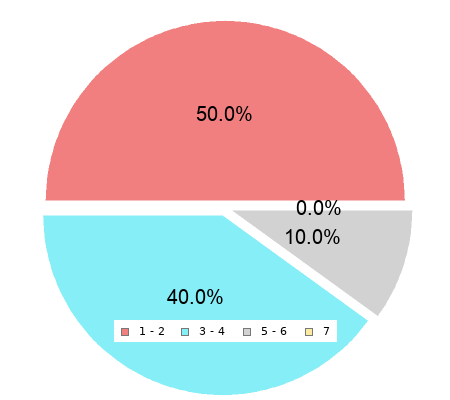
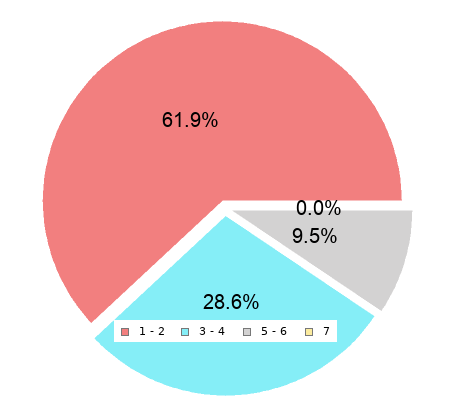
Mejoras en PDF chart

diff --git a/src/templates/ReportPdfChart.php b/src/templates/ReportPdfChart.php
@@ -4,6 +4,10 @@
 	$file_name = (isset($file_name)) ? $file_name : NULL;
 	$price = (isset($price)) ? $price : 0;
 	$pricemetro = (isset($pricemetro)) ? $pricemetro : 0;
+	$planta = (isset($planta)) ? $planta : 0;
+	$hab = (isset($hab)) ? $hab : 0;
+	$bno = (isset($bno)) ? $bno : 0;
+	$constr = (isset($constr)) ? $constr : 0;
 	$amueblado = (isset($amueblado)) ? $amueblado : 0;
 	$a_c = (isset($a_c)) ? $a_c : 0;
 	$elevator = (isset($elevator)) ? $elevator : 0;
@@ -17,14 +21,22 @@
 	{
 	    $prom = 0;
 		$promMetro = 0;
+		$planta = 0;
+		$hab = 0;
+		$bno = 0;
+		$constr = 0;
 	}
 	else
 	{
 	    $prom = $price / $rows;
 		$promMetro = $pricemetro / $rows;
+		$plan = $planta / $rows;
+		$hb = $hab / $rows;
+		$bn = $bno / $rows;
+		$co = $constr / $rows;
 	}	
 
-	$pdf = new FPDF('P','mm','Legal');
+	$pdf = new FPDF('P','mm','A4');
 
 	$pdf ->SetFillColor('200','200','200');
 	$pdf->SetDrawColor('194','194','194');
@@ -34,20 +46,22 @@
 
 	function headerPdf($pdf)
 	{
+		$pdf -> SetFont('Arial', '', 12);	
+		$pdf->SetTextColor('55','55','55');
 		$pdf -> Image(__DIR__ .'/../image/AH_LogoHost_Color.png', 6, 6, 60, 14);
 		$pdf->Text(93,15,utf8_decode('Informe de Valoración'));
 		//$pdf -> Image(__DIR__ .'/../image/maps.png', 185, 3, 20, 20, 'PNG');
-		$pdf -> Line(8,25,207,25);
+		$pdf -> Line(8,23,200,23);
 	}
 
 	function footer($pdf)
 	{
 		$pdf->SetTextColor('134','134','134');
-		$pdf -> Line(8,333,207,333);
-		$pdf->SetFontSize(9);
-		$pdf->Text(8,346,'Alterhome');
-		$pdf->Text(60,346,utf8_decode('Calle de Alfonso XII, 8, entreplanta, izquierda, 28014 Madrid'));		
-		$pdf->Text(177,346,'+34 910 57 30 27');		
+		$pdf -> Line(8,280,200,280);
+		$pdf -> SetFont('Arial', '', 9);	
+		$pdf->Text(8,290,'Alterhome');
+		$pdf->Text(60,290,utf8_decode('Calle de Alfonso XII, 8, entreplanta, izquierda, 28014 Madrid'));		
+		$pdf->Text(177,290,'+34 910 57 30 27');		
 	}
 
 	function apartamento ($pdf, $apart, $prom)
@@ -59,7 +73,9 @@
 			'balcon' => 'Balcón'
 		);
 		$pdf->SetTextColor('55','55','55');
+		$pdf -> SetFont('Arial', 'B', 17);
 
+		$pdf->Text(75,33,utf8_decode("Promedio de la zona"));
 		// foto / descripcion
 		$pdf -> Image(__DIR__ .'/../image/prueba.jpg', 10, 40, 60, 60);
 
@@ -99,36 +115,14 @@
 
 		$pdf -> SetFont('Arial', 'B', 16);
 		$pdf->Text(18,146,$apart['tipo']);
-		$pdf->Text(52,146,$apart['planta']);
-		$pdf->Text(88,146,$apart['habitaciones']);
-		$pdf->Text(124,146,$apart['bano']);
-		$pdf->Text(153,146,$apart['metrosCuadrados'].utf8_decode(' m²'));
+		$pdf->Text(52,146,round($prom['planta'],0));
+		$pdf->Text(88,146,round($prom['habitaciones'],0));
+		$pdf->Text(124,146,round($prom['bano'],0));
+		$pdf->Text(153,146,round($prom['construccion'],2).utf8_decode(' m²'));
 		$pdf -> SetFont('Arial', '', 12);
 
-		$pdf -> Line(8,165,207,165);
+		$pdf -> Line(8,160,207,160);
 		$pdf -> SetFont('Arial', '', 12);
-
-		//Beneficios apartamentos
-		$coun = 0;
-		$ejeX = 9;
-		foreach ($beneficios as $key => $value) {
-			if ($apart[$key]) {
-				$pdf -> Rect($ejeX, 172, 40, 10, 'F');
-				$pdf->Text($ejeX+13,178.4,utf8_decode($value));
-				$ejeX+=45;
-				$coun++;
-			}
-		}
-		if($coun == 0)
-		{
-			$pdf -> Rect(23, 172, 160, 10, 'F');
-			$pdf->Text(35,178.4,utf8_decode('Apartamento no posee: Aire Acondicionado, Exterior, Ascensor, Balcón.'));
-		}
-
-		$pdf -> Line(8,190,207,190);
-
-
-		$pdf -> SetFont('Arial', 'B', 14);
 	}
 
 	//Portada
@@ -136,7 +130,7 @@
 	$pdf->SetTextColor('225','225','225');
 	$pdf->SetFontSize(20);
 	$date = getdate();
-	$pdf->image(__DIR__.'/../image/portada.jpg',0,0,250,356,'JPG');
+	$pdf->image(__DIR__.'/../image/portada.jpg',0,0,250,300,'JPG');
 	$pdf->image(__DIR__.'/../image/AH_LogoHost_Blanco.png',50,10,120,29,'PNG');
 	$pdf->Text(70,60,utf8_decode('INFORME DE VALORACIÓN'));
 	$pdf->SetFontSize(12);
@@ -144,8 +138,8 @@
 	 $meses_ES = array("Enero", "Febrero", "Marzo", "Abril", "Mayo", "Junio", "Julio", "Agosto", "Septiembre", "Octubre", "Noviembre", "Diciembre");
   	 $meses_EN = array("January", "February", "March", "April", "May", "June", "July", "August", "September", "October", "November", "December");
   	$mes = str_replace($meses_EN,$meses_ES,$date['month']);
-	$pdf->Text(150,330,utf8_decode('Fecha de emisión'));
-	$pdf->Text(145,339,$date['mday']." de ".$mes." de ".$date['year']);
+	$pdf->Text(150,280,utf8_decode('Fecha de emisión'));
+	$pdf->Text(145,286,$date['mday']." de ".$mes." de ".$date['year']);
 
 	//contra-portada
 	$pdf -> AddPage();	
@@ -158,7 +152,7 @@
 	$pdf->MultiCell(0,10,utf8_decode($apart['direccion']),0,'J',false);
 	$pdf->Ln(50);
 	$pdf -> Cell(30,15,'Alquiler','L',0,'C',true);
-	$pdf -> Image(__DIR__ .'/../image/AH_LogoHost_Color.png', 50, 270, 120,27);
+	$pdf -> Image(__DIR__ .'/../image/AH_LogoHost_Color.png', 50, 220, 120,27);
 
 	//Pagina datos 
 	$pdf -> AddPage();
@@ -169,42 +163,44 @@
 
 	
 
-	apartamento($pdf, $apart,[ 'prom' => $prom, 'promM' => $promMetro]);
+	apartamento($pdf, $apart,[ 'prom' => $prom, 'promM' => $promMetro, 'planta' => $plan, 'habitaciones' => $hb, 'bano' => $bn, 'construccion' => $co]);
 
 	//Reporte Global-1
 	$pdf->SetFontSize(16);
-	$pdf->Text(73,200,'Detalle global de la zona');
+	$pdf->Text(73,170,'Detalle global de la zona');
 	$pdf->SetFontSize(12);
 
 	//tamaños title
-	$pdf->Text(23,215,'Precio');
-	$pdf->Text(63,215,'Apartamentos');	
-	$pdf->Text(101.5,215,utf8_decode('Edad media edificación'));
-	$pdf->Text(155,215,utf8_decode('Radio de búsqueda'));
-	$pdf->Text(26,275,'A/C');
-	$pdf->Text(67,275,'Ascensor');
-	$pdf->Text(118,275,utf8_decode('Balcón'));	
-	$pdf->Text(164,275,'Amueblado');
+	$pdf->Text(23,180,'Precio');
+	$pdf->Text(63,180,'Apartamentos');	
+	$pdf->Text(101.5,180,utf8_decode('Edad media edificación'));
+	$pdf->Text(155,180,utf8_decode('Radio de búsqueda'));
+	$pdf->Text(26,228,'A/C');
+	$pdf->Text(67,228,'Ascensor');
+	$pdf->Text(118,228,utf8_decode('Balcón'));	
+	$pdf->Text(164,228,'Amueblado');
 
 	$pdf->SetTextColor('100','100','100');
-	$pdf->Text(90,320,'Apartamentos');
+	$pdf->Text(43,267,'Estos valores son la cantidad de apartamentos en base a la zona');
 	$pdf->SetTextColor('55','55','55');
+	$pdf -> SetFont('Arial', 'I', 9);
+	$pdf->Text(58,272,'( Ejemplo: hay '.$elevator.' apartamentos de '.$rows.' que cuentan con ascensor )');
 
 	//data
-	$pdf -> SetFont('Arial', 'B', 13.5);
+	$pdf -> SetFont('Arial', 'B', 12.5);
 	//precio	
-	$pdf -> Line(8,210,8,250);
-	$pdf -> Image(__DIR__ .'/../image/rounded_blue.png', 15, 218, 30, 35);
-	$pdf->Text(20,238,round($prom,2)." ".EURO);
+	$pdf -> Line(8,175,8,210);
+	$pdf -> Image(__DIR__ .'/../image/rounded_blue.png', 18, 185, 25, 27);
+	$pdf->Text(20,200,round($prom,2)." ".EURO);
 
 	//apartamentos
-	$pdf -> Line(53,210,53,250);	
-	$pdf -> Image(__DIR__ .'/../image/rounded_blue.png', 62, 218, 30, 35);
-	$pdf->Text(73,238,$rows);
+	$pdf -> Line(53,175,53,210);	
+	$pdf -> Image(__DIR__ .'/../image/rounded_blue.png', 64, 185, 25, 27);
+	$pdf->Text(73,200,$rows);
 
 	//edad media
-	$pdf -> Line(100,210,100,250);
-	$pdf -> Image(__DIR__ .'/../image/rounded_blue.png', 110, 218, 30, 35);
+	$pdf -> Line(100,175,100,210);
+	$pdf -> Image(__DIR__ .'/../image/rounded_blue.png', 112, 185, 25, 27);
 
 		//calculo edad
 		$sumedad=0;
@@ -216,41 +212,41 @@
 			}			
 		}
 		$edad = $sumedad/$rowsedad;
-	$pdf->Text(122,238,round($edad));
+	$pdf->Text(121,200,round($edad));
 
 	// Radio de busqueda
-	$pdf -> Line(150,210,150,250);
-	$pdf -> Image(__DIR__ .'/../image/rounded_blue.png', 160, 218, 30, 35);
-	$pdf->Text(172.5,238,$km);
-	$pdf -> Line(200,210,200,250);			
+	$pdf -> Line(150,175,150,210);
+	$pdf -> Image(__DIR__ .'/../image/rounded_blue.png', 162, 185, 25, 27);
+	$pdf->Text(172.5,200,$km);
+	$pdf -> Line(200,175,200,210);			
 	$pdf -> SetFont('Arial', '', 11);
-	$pdf->Text(138,223,utf8_decode('Años'));
-	$pdf->Text(189,223,utf8_decode('Km³'));	
+	$pdf->Text(138,189,utf8_decode('Años'));
+	$pdf->Text(189,189,utf8_decode('Km³'));	
 	$pdf -> SetFont('Arial', 'B', 13.5);
 
 	//Reporte Global-2
-	$pdf -> Line(8,260,200,260);
+	$pdf -> Line(8,218,200,218);
 
 	// A/C
-	$pdf -> Line(8,270,8,320);
-	$pdf -> Image(__DIR__ .'/../image/rounded_blue.png', 15, 278, 30, 35);
-	$pdf->Text(26,297,$a_c);
+	$pdf -> Line(8,223,8,270);
+	$pdf -> Image(__DIR__ .'/../image/rounded_blue.png', 18, 232, 25, 27);
+	$pdf->Text(27,247,$a_c);
 
 	//ascensor
-	$pdf -> Line(53,270,53,310);	
-	$pdf -> Image(__DIR__ .'/../image/rounded_blue.png', 62, 278, 30, 35);
-	$pdf->Text(73,297,$elevator);
+	$pdf -> Line(53,223,53,258);	
+	$pdf -> Image(__DIR__ .'/../image/rounded_blue.png', 64, 232, 25, 27);
+	$pdf->Text(73,247,$elevator);
 
 	// balcón
-	$pdf -> Line(100,270,100,310);
-	$pdf -> Image(__DIR__ .'/../image/rounded_blue.png', 110, 278, 30, 35);
-	$pdf->Text(122.5,297,$balcon);
+	$pdf -> Line(100,223,100,258);
+	$pdf -> Image(__DIR__ .'/../image/rounded_blue.png', 112, 232, 25, 27);
+	$pdf->Text(121.5,247,$balcon);
 
 	// Amueblado
-	$pdf -> Line(150,270,150,310);
-	$pdf -> Image(__DIR__ .'/../image/rounded_blue.png', 160, 278, 30, 35);
-	$pdf->Text(171,297,$amueblado);
-	$pdf -> Line(200,270,200,320);
+	$pdf -> Line(150,223,150,258);
+	$pdf -> Image(__DIR__ .'/../image/rounded_blue.png', 162, 232, 25, 27);
+	$pdf->Text(172,247,$amueblado);
+	$pdf -> Line(200,223,200,270);
 
 	footer($pdf);
 
@@ -269,26 +265,26 @@
 
 		
 	    $pdf->Text(40,40,'Habitaciones');
-	    $pdf -> Image($imgHab, 8, 45, 95, 95);
+	    $pdf -> Image($imgHab, 15, 45, 80, 75);
 
 		
-	    $pdf->Text(148,40,utf8_decode('Baños'));
-	    $pdf -> Image($imgBano, 110, 45, 95, 95);
+	    $pdf->Text(150,40,utf8_decode('Baños'));
+	    $pdf -> Image($imgBano, 120, 45, 80, 75);
 
 		
-	    $pdf -> Image($imgPrice, 18, 168, 180, 160);
-	    $pdf->Text(54,185,utf8_decode('Cantidad de apartamentos según su precio'));
+	    $pdf -> Image($imgPrice, 28, 135, 170, 150);
+	    $pdf->Text(54,150,utf8_decode('Cantidad de apartamentos según su precio'));
 
-	    $pdf -> Line(10,165,207,165);
-	    $pdf -> Line(106,35,106,150);
+	    $pdf -> Line(10,140,207,140);
+	    $pdf -> Line(106,35,106,135);
 
 	    $pdf->SetTextColor('110','110','110');
 	    $pdf->SetFontSize(12);
 
-	    $pdf->Text(160,318,'Precio ( '.EURO." )");
-	    $pdf->Text(8,220,'Apartamentos');
-	    $pdf->Text(17,148,utf8_decode('Porcentaje según cantidad de habitaciones'));
-	    $pdf->Text(126,148,utf8_decode('Porcentaje según cantidad de baños'));
+	    $pdf->Text(160,272,'Precio ( '.EURO." )");
+	    $pdf->Text(3,200,'Apartamentos');
+	    $pdf->Text(17,130,utf8_decode('Porcentaje según cantidad de habitaciones'));
+	    $pdf->Text(126,130,utf8_decode('Porcentaje según cantidad de baños'));
 	    footer($pdf);
 
 	}else{

diff --git a/src/Calculator.php b/src/Calculator.php
@@ -122,6 +122,10 @@ class Calculator extends Settings
         $file_name = __DIR__ . '/../output';
         $price = 0;
         $pricemetro = 0;
+        $planta = 0;
+        $hab = 0;
+        $bno = 0;
+        $constr = 0;
         $amueblado =0;
         $a_c =0;
         $elevator =0;
@@ -150,6 +154,10 @@ class Calculator extends Settings
             while (($datum = $ok->fetch_assoc())) {
                 $price += $datum['precio'];
                 $pricemetro += $datum['precioMetro'];
+                $planta += $datum['planta'];
+                $hab += $datum['habitaciones'];
+                $bno += $datum['bano'];
+                $constr += $datum['metrosCuadrados'];
                 $amueblado += ($datum['amueblado']) ? 1 : 0;
                 $a_c += ($datum['aireAcondicionado']) ? 1 : 0;
                 $elevator += ($datum['ascensor']) ? 1 : 0;

diff --git a/example/importar_csv.php b/example/importar_csv.php
@@ -7,7 +7,7 @@ use leifermendez\scrapper_calculator\Calculator;
 
 $calculator = new Calculator();
 
-$file = __DIR__ . '/../csv/2019-09-30T230344.101Z_alquiler-viviendas_madrid_salamanca_lista.csv';
+$file = __DIR__ . '/../csv/2019-10-02T071802.756Z_alquiler-viviendas_madrid_villa-de-vallecas_ensanche-de-vallecas-la-gavia.csv';
 $res = $calculator->importCSV($file);
 
 var_dump($res);

diff --git a/example/calculator_chart.php b/example/calculator_chart.php
@@ -7,7 +7,7 @@ use leifermendez\scrapper_calculator\Calculator;
 $calculator = new Calculator();
 $calculator->calculatorChart(
       
-    '40.4315534',
-    '-3.6777435',
+    '40.3622039',
+    '-3.5936001',
     1
 );
